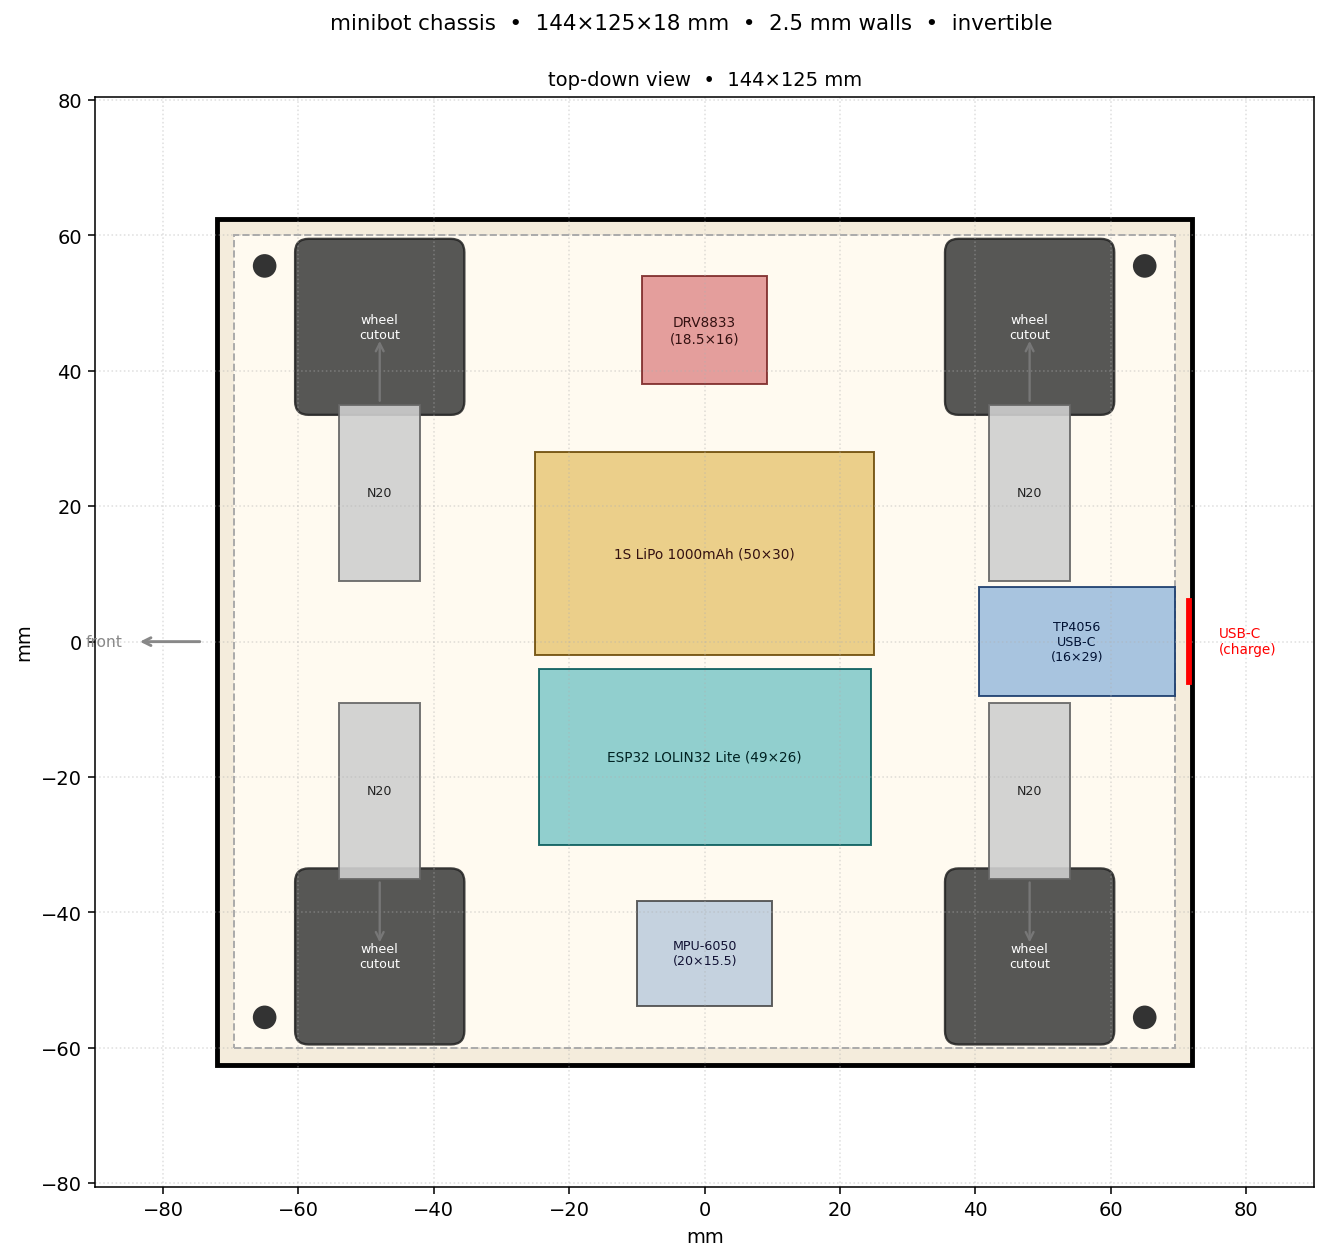
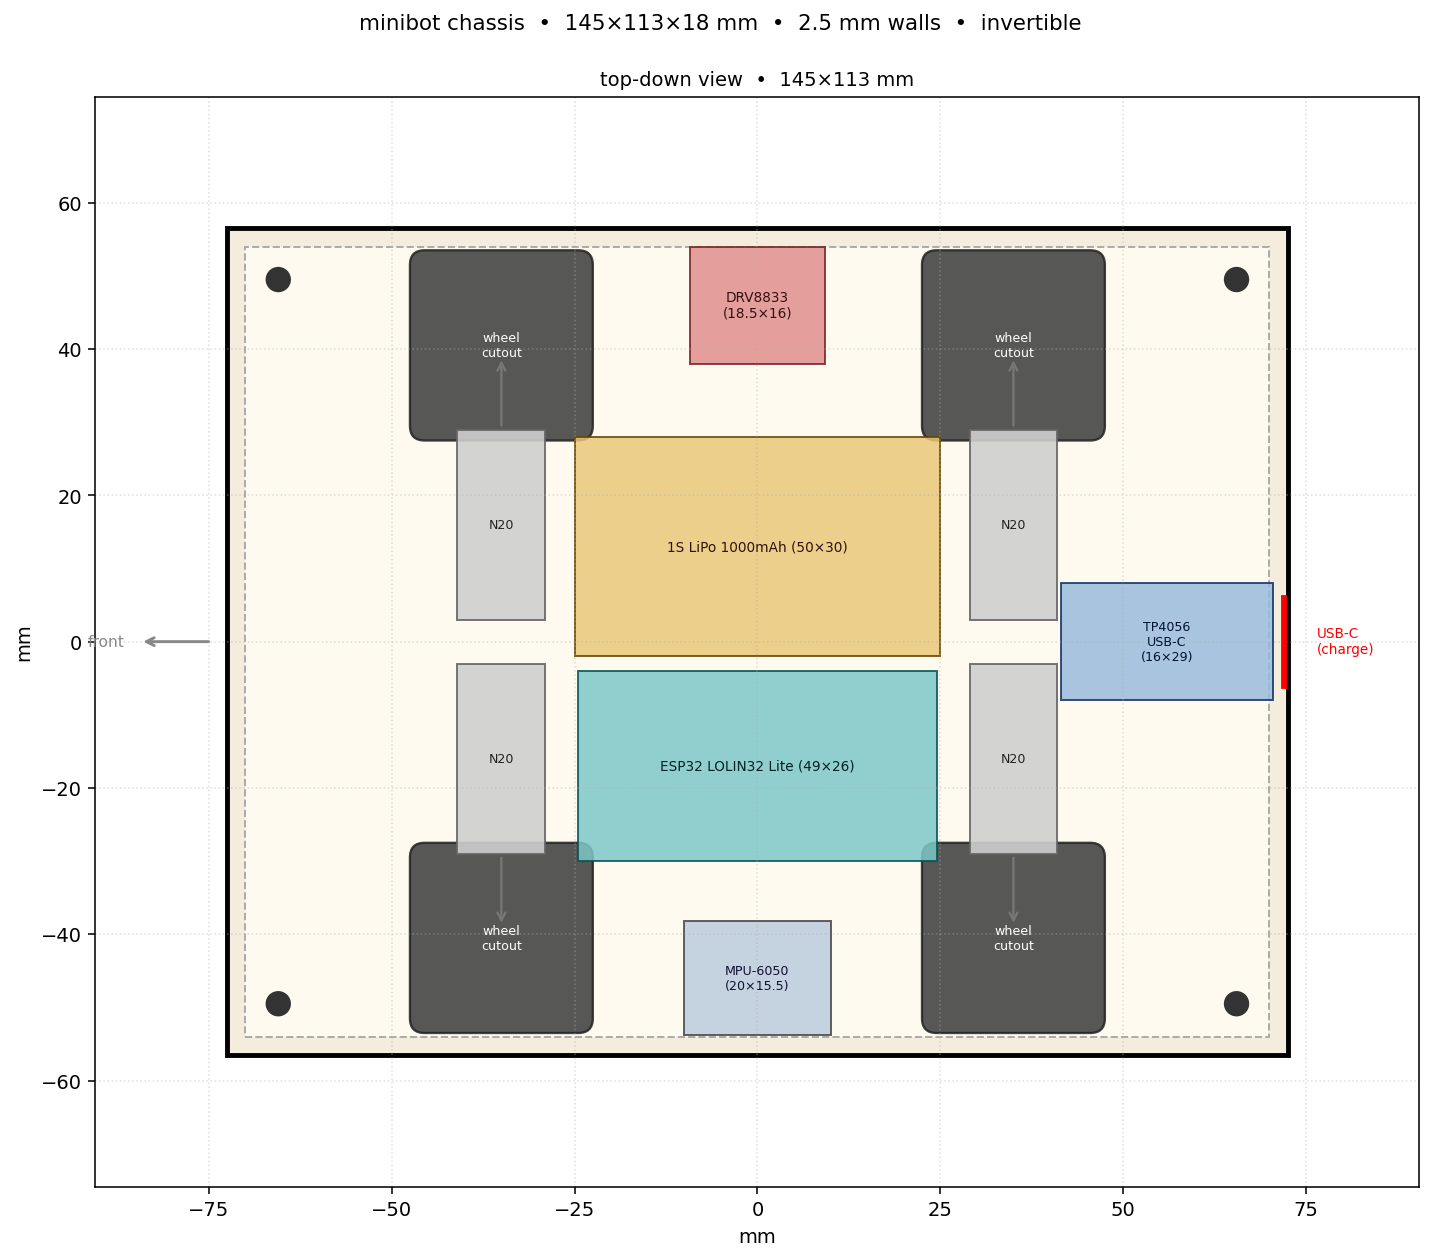
feat(cad): narrow to 113mm — TP4056 behind rear motors lets track drop to 32mm

diff --git a/docs/cad/layout.py b/docs/cad/layout.py
@@ -13,8 +13,8 @@ import matplotlib.pyplot as plt
 OUT = Path(__file__).resolve().parent
 
 # ─── parameters (kept in sync with chassis.scad) ────────────────────
-plate_length = 144
-plate_width = 125
+plate_length = 145
+plate_width = 113
 plate_thick = 3       # floor thickness (Z)
 wall_thick = 2.5      # perimeter wall thickness (X/Y)
 wall_half_height = 6  # half of the cavity height (so cavity = 12 mm)
@@ -23,8 +23,8 @@ motor_width = 12       # X dimension when laid flat
 motor_height = 10      # Z dimension (perpendicular to plate)
 motor_diameter = motor_width
 motor_length = 26      # body only, excluding shaft
-motor_axle_pitch = 96
-motor_track = 44
+motor_axle_pitch = 70
+motor_track = 32
 
 wheel_diameter = 25      # measured outer diameter incl. rubber tire
 wheel_width = 23
@@ -70,7 +70,7 @@ bat_x, bat_y = 0, +13
 esp_x, esp_y = 0, -17
 drv_x, drv_y = 0, +46
 imu_pos_x, imu_pos_y = 0, -46
-tp_x, tp_y = 55, 0
+tp_x, tp_y = 56, 0
 
 
 def draw_top(ax) -> None:

diff --git a/research.md b/research.md
@@ -282,14 +282,14 @@ The motors mount **shaft-outward** — bodies sit toward the chassis centre, sha
 
 | | |
 |---|---|
-| Plate length | **144 mm** (front-to-back) |
-| Plate width | **125 mm** (side-to-side, 2 mm tyre-to-wall gap) |
+| Plate length | **145 mm** (front-to-back) |
+| Plate width | **113 mm** (side-to-side, 2 mm tyre-to-wall gap) |
 | Plate thickness | 3 mm |
 | Wall thickness | 2.5 mm |
 | Wall height per plate | 6 mm (×2 = 12 mm cavity) |
 | Total chassis height | **18 mm** (3 + 6 + 6 + 3) |
-| Motor track (centres) | **44 mm** |
-| Motor axle pitch (wheelbase) | 96 mm (wheels near the corners) |
+| Motor track (centres) | **32 mm** |
+| Motor axle pitch (wheelbase) | 70 mm |
 | Wheel positions | shaft-outward from motors; wheel centres at ±47.5 mm in Y |
 | Wheel cutout per plate | ~30 × 22 mm rounded slot (×4) |
 | Mounting | M2.5 heat-set inserts in corner bosses |

diff --git a/README.md b/README.md
@@ -13,7 +13,7 @@ A small invertible 4WD ESP32 robot driven by a PS3 controller over Bluetooth.
 - **MPU-6050 IMU** for orientation detection — auto-flips drive direction when the bot is upside-down
 - **TP4056 USB-C charge + DW01A protection board** — handles charging, overcharge, overdischarge and short-circuit protection
 - **1S LiPo 3.7 V / 1000 mAh (603048)**, ~1 hour of cruising
-- **3D-printed PETG translucent chassis** — fully enclosed (2.5 mm walls all around), invertible, ~144 × 125 × 18 mm
+- **3D-printed PETG translucent chassis** — fully enclosed (2.5 mm walls all around), invertible, ~145 × 113 × 18 mm
 
 ## System
 
